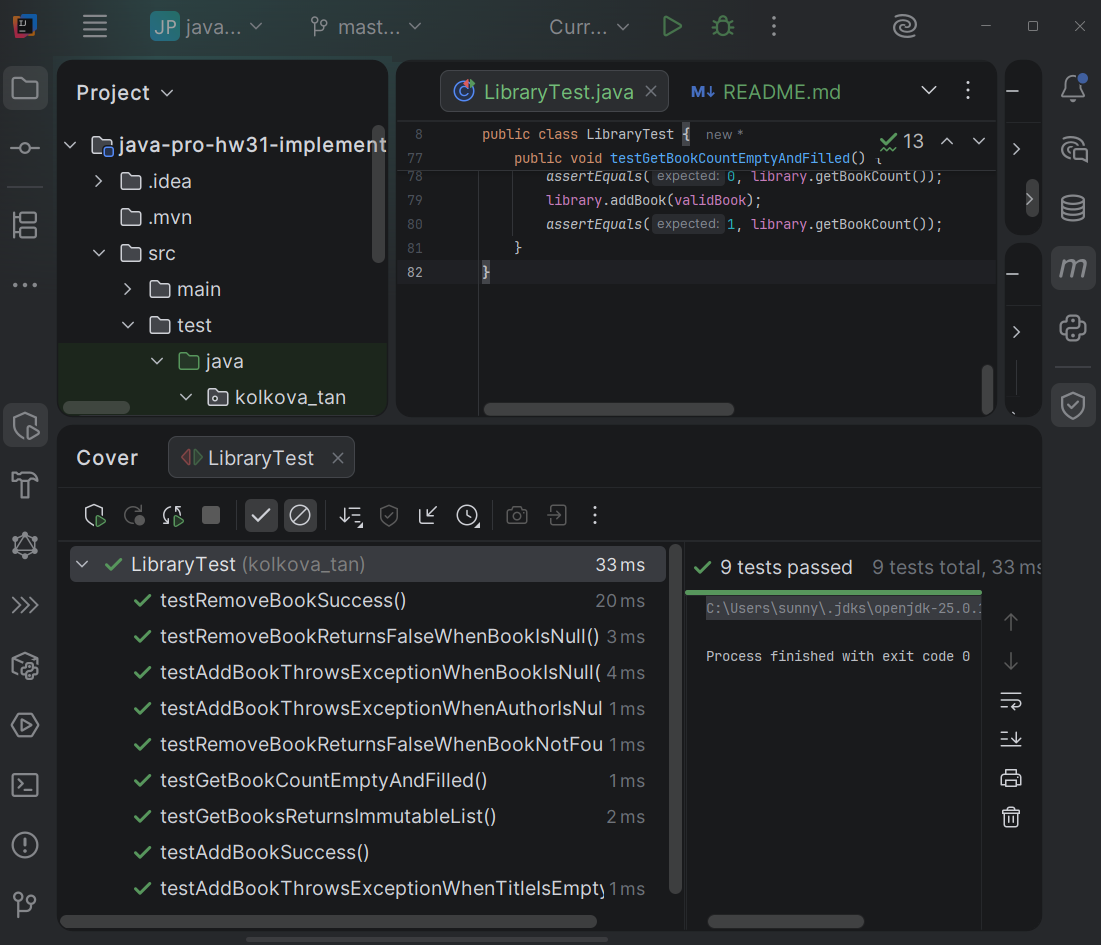
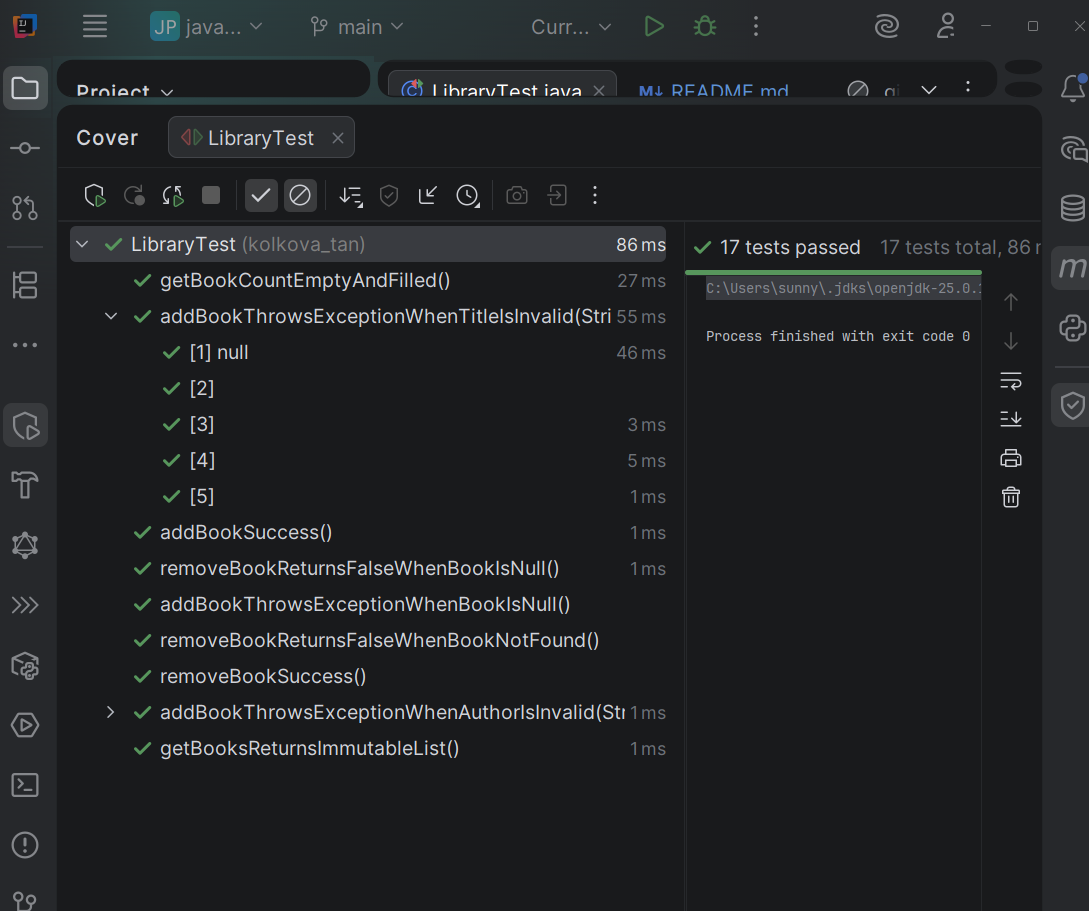
refactor readme

diff --git a/README.md b/README.md
@@ -1,6 +1,8 @@
-# Реалізація класу Library та покриття Unit-тестами (JUnit 5)
+# Реалізація класу Library та покриття Unit-тестами (JUnit 5) — Рефакторинг
 
 Цей проєкт є виконанням практичного завдання з розробки об'єктно-орієнтованої логіки для керування бібліотекою книг (`Library` та `Book`) із повним покриттям коду модульными тестами.
+
+Код тестів було повністю рефакторизовано та оптимізовано відповідно до сучасних стандартів розробки та найкращих практик JUnit 5.
 
 ## 🚀 Стек технологій
 * **Java** (версія 25)
@@ -10,32 +12,30 @@
 
 ---
 
-## 🛠 Опис реалізації
+## 🛠 Опис покращень та архітектури тестування
 
-### 1. Клас `Book` (Модель даних)
-* Містить обов'язкові поля: `title` (назва) та `author` (автор).
-* Перевизначено методи `equals()` та `hashCode()` за обома полями, що дозволяє коректно порівнювати книги між собою за змістом, а не за посиланнями в пам'яті.
-* Реалізовано метод `toString()` для зручного логування.
+В ході рефакторингу тестового класу `LibraryTest` було впроваджено наступні архітектурні покращення:
 
-### 2. Клас `Library` (Бізнес-логіка)
-* Реалізовано підхід **Fail-Fast**: методи здійснюють строгу валідацію вхідних параметрів. Якщо передано `null` або пусті рядки в назві/авторі книги — генерується виключення `IllegalArgumentException`.
-* Метод `getBooks()` повертає **unmodifiable** (немодифіковану) копію списку за допомогою `Collections.unmodifiableList()`. Це захищає внутрішню колекцію бібліотеки від випадкових прямих змін ззовні.
+1. **Параметризовані тести (`@ParameterizedTest`)**:
+    * Замість дублювання методів для кожної некоректної перевірки, логіку обробки `null` та пустих значень було об'єднано за допомогою аннотацій `@ParameterizedTest` та `@NullAndEmptySource`.
+    * Додатково використано `@ValueSource` для перевірки граничних випадків із різними типами пробілів, табуляцій (`\t`) та переносів рядків (`\n`).
 
-### 3. Тестовий клас `LibraryTest`
-Покриває всі основні позитивні та негативні сценарії:
-* Успішне додавання та видалення книг.
-* Перевірка реакції на `null`-об'єкти, пусті назви та відсутність авторів.
-* Перевірка неможливості модифікації списку книг ззовні.
-* Контроль точного підрахунку кількості книг (`getBookCount`).
+2. **Строга валідація виключень (Exception Messages)**:
+    * Тепер тести не просто очікують генерацію `IllegalArgumentException`, а й детально перевіряють текст повідомлення помилки (`exception.getMessage()`). Це гарантує, що спрацював саме наш захисний блок валідації.
+
+3. **Оптимізація пам'яті та ізоляція (Lazy Initialization)**:
+    * З методу `@BeforeEach` було видалено дефолтну ініціалізацію тестової книги, яка використовувалася не в усіх сценаріях. Натомість реалізовано приватний метод фабрики `createValidBook()`, що створює об'єкт книги виключно тоді, коли це необхідно конкретному тесту.
+
+4. **Чистий іменувальний стиль (Clean Naming)**:
+    * Відповідно до стандартів JUnit 5, застарілий префікс `test` було видалено з назв усіх методів. Самі назви стали більш лаконічними та чітко описують очікувану поведінку (наприклад, `addBookSuccess`, `removeBookReturnsFalseWhenBookNotFound`).
 
 ---
 
 ## 📸 Результати тестування (Скріншоти для LMS)
 
-### 1. Успішне проходження всіх Unit-тестів
-Всі тести в IntelliJ IDEA запусклись та загорілися зеленими маркерами без помилок:
+### 1. Успішне проходження параметризованих та модульних тестів
+Всі тест-кейси (включаючи згенеровані матриці параметризованих перевірок) успішно пройшли тестування:
 ![img.png](img.png)
 
 ### 2. Структура проєкту в IDE
-Проєкт чітко розділений на вихідний код (`src/main`) та тести (`src/test`):
 ![img_1.png](img_1.png)
